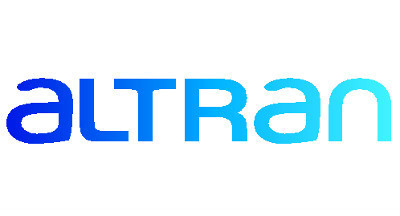
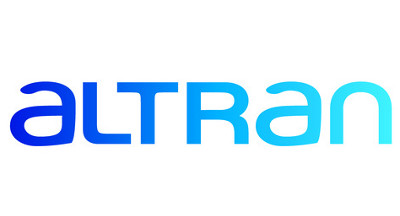
add cisco and improved images resolution for altran and lunacloud

Changed region(s): [[0.21, 0.3611, 0.99, 0.6944], [0.0, 0.3611, 0.24, 0.6944]]

diff --git a/index.html b/index.html
@@ -295,8 +295,15 @@
               <p>BRONZE</p>
             </div>
 			<div class="separator bronze"></div>
-            <div class="row besponsor bronze">
-              <a href="#sponsoring">Be the first bronze sponsor of JBCNConf</a>
+            <div class="row bronze">
+               <div class="col-md-12 sponsor animated hiding" data-animation="fadeInUp" data-delay="300">
+                <div class="sponsor-photo">
+                  <a href="http://developer.cisco.com">
+                    <img class="img-responsive" src="assets/img/sponsors/cisco.jpg" alt="YourKit">
+                  </a>
+                </div>
+                <div class="sponsor-txt">Cisco DevNet - Where developers go at Cisco!</div>
+              </div>
             </div>
       		<div class="separator supporters"></div>
             <div class="row type supporters">
